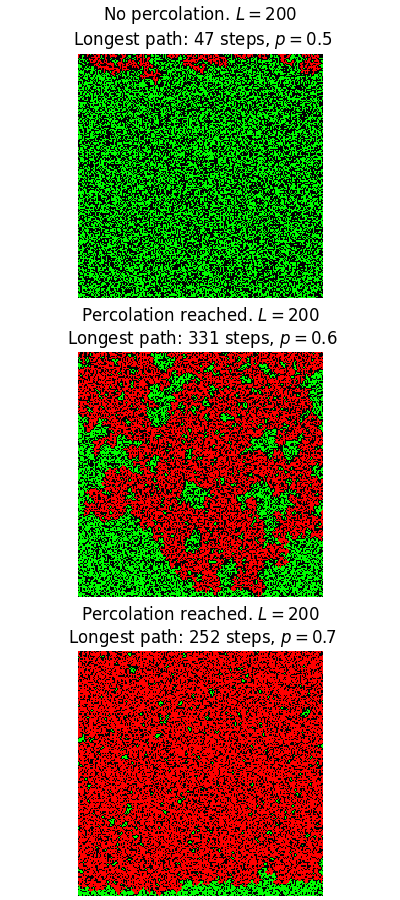
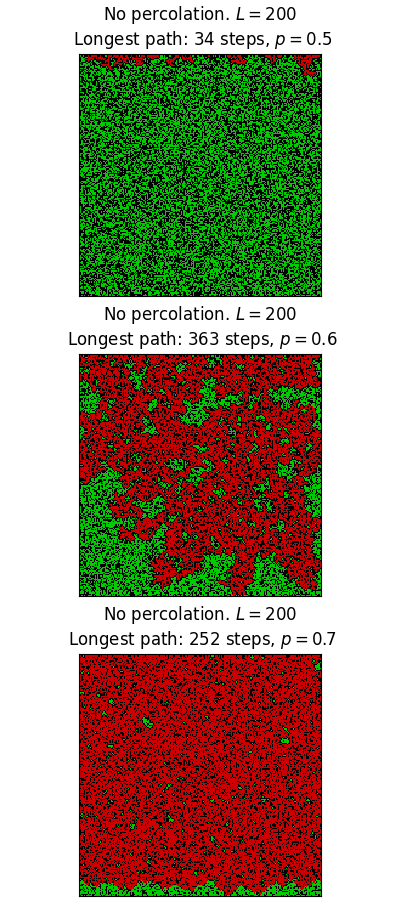
corrected percolation graph

diff --git a/BurningModel/BurningModel.py b/BurningModel/BurningModel.py
@@ -82,7 +82,7 @@ class BurningModel(ProbabilitySite):
 
     def plot_percolation(self, ax=None, cmap=()):
         if ax:
-            cmap = cmap if cmap else ([(0, 0, 0), (0, 1, 0), (1, 0, 0)], 3)
+            cmap = cmap if cmap else (['#000000', '#00cc00', '#cc0000'], 3)
             grid = self.get_current_grid()
             grid[grid >= 2] = 2
             colors, quality = cmap
@@ -91,11 +91,11 @@ class BurningModel(ProbabilitySite):
                      f'$L = {self.L}$\n Longest path: {self.step} steps, $p = {self.p}$')
             ax.imshow(grid, cmap=cmap, interpolation='nearest')
             ax.set_title(title)
-            ax.axis('off')
+            ax.set(xticks=[], yticks=[])
 
 
 if __name__ == '__main__':
-    L = 50
+    L = 10
     p = [0.5, 0.6, 0.7]
 
     figure, axes = plt.subplots(len(p), 1, layout='constrained')
